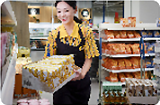
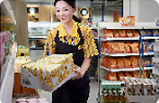
替換解析度差的圖片、排版修正

diff --git a/index.html b/index.html
@@ -7309,27 +7309,25 @@
                 <div class="col">
                   <div class="card border-0">
                     <div class="card-body">
-                      <div class="d-flex align-items-start">
-                        <div class="row">
-                          <div class="col-12 col-md-4">
-                            <div class="card">
-                              <img
-                                src="public/img/bg-img-we-are-looking-for-people-who-share-a-common-working-philosophy.png"
-                                class="card-img border-0"
-                                alt="說明圖片"
-                              />
-                            </div>
+                      <div class="row g-3 align-items-start">
+                        <div class="col-12 col-xl-4">
+                          <div class="card">
+                            <img
+                              src="public/img/bg-img-we-are-looking-for-people-who-share-a-common-working-philosophy.png"
+                              class="card-img border-0"
+                              alt="說明圖片"
+                            />
                           </div>
-                          <div class="col-12 col-md-8">
-                            <h6 class="m-0">我們正在尋找有共同工作理念的人</h6>
-                            <ul class="ps-3">
-                              <li>全台招募_餐廳_廚房人員</li>
-                              <li>全台聯招_銷售部_銷售人員</li>
-                            </ul>
-                            <p class="card-text text-end">
-                              <a href="#">更多職缺</a>
-                            </p>
-                          </div>
+                        </div>
+                        <div class="col-12 col-xl-8">
+                          <h6 class="m-0">我們正在尋找有共同工作理念的人</h6>
+                          <ul class="ps-3">
+                            <li>全台招募_餐廳_廚房人員</li>
+                            <li>全台聯招_銷售部_銷售人員</li>
+                          </ul>
+                          <p class="card-text text-end">
+                            <a href="#">更多職缺</a>
+                          </p>
                         </div>
                       </div>
                     </div>
@@ -7338,26 +7336,24 @@
                 <div class="col">
                   <div class="card border-0">
                     <div class="card-body">
-                      <div class="d-flex align-items-start">
-                        <div class="row">
-                          <div class="col-12 col-md-4">
-                            <div class="card">
-                              <img
-                                src="public/img/bg-img-jpmorgan-asset-management-taiwan.png"
-                                class="card-img border-0"
-                                alt="說明圖片"
-                              />
-                            </div>
+                      <div class="row g-3 align-items-start">
+                        <div class="col-12 col-xl-4">
+                          <div class="card">
+                            <img
+                              src="public/img/bg-img-jpmorgan-asset-management-taiwan.png"
+                              class="card-img border-0"
+                              alt="說明圖片"
+                            />
                           </div>
-                          <div class="col-12 col-md-8">
-                            <h6 class="m-0">摩根證券投資信託</h6>
-                            <p class="card-text">
-                              2023 APAC Asset Management Information Session
-                            </p>
-                            <p class="card-text text-end">
-                              <a href="#">更多職缺</a>
-                            </p>
-                          </div>
+                        </div>
+                        <div class="col-12 col-xl-8">
+                          <h6 class="m-0">摩根證券投資信託</h6>
+                          <p class="card-text">
+                            2023 APAC Asset Management Information Session
+                          </p>
+                          <p class="card-text text-end">
+                            <a href="#">更多職缺</a>
+                          </p>
                         </div>
                       </div>
                     </div>
@@ -7366,27 +7362,25 @@
                 <div class="col">
                   <div class="card border-0">
                     <div class="card-body">
-                      <div class="d-flex align-items-start">
-                        <div class="row">
-                          <div class="col-12 col-md-4">
-                            <div class="card">
-                              <img
-                                src="public/img/bg-img-join-azolla.png"
-                                class="card-img border-0"
-                                alt="說明圖片"
-                              />
-                            </div>
+                      <div class="row g-3 align-items-start">
+                        <div class="col-12 col-xl-4">
+                          <div class="card">
+                            <img
+                              src="public/img/bg-img-join-azolla.png"
+                              class="card-img border-0"
+                              alt="說明圖片"
+                            />
                           </div>
-                          <div class="col-12 col-md-8">
-                            <h6 class="m-0">加入滿江紅，讓你比人紅</h6>
-                            <ul class="ps-3">
-                              <li>大安店-內外場兼職人員</li>
-                              <li>大安店-內場人員（早晚班）</li>
-                            </ul>
-                            <p class="card-text text-end">
-                              <a href="#">更多職缺</a>
-                            </p>
-                          </div>
+                        </div>
+                        <div class="col-12 col-xl-8">
+                          <h6 class="m-0">加入滿江紅，讓你比人紅</h6>
+                          <ul class="ps-3">
+                            <li>大安店-內外場兼職人員</li>
+                            <li>大安店-內場人員（早晚班）</li>
+                          </ul>
+                          <p class="card-text text-end">
+                            <a href="#">更多職缺</a>
+                          </p>
                         </div>
                       </div>
                     </div>
@@ -7395,26 +7389,24 @@
                 <div class="col">
                   <div class="card border-0">
                     <div class="card-body">
-                      <div class="d-flex align-items-start">
-                        <div class="row">
-                          <div class="col-12 col-md-4">
-                            <div class="card">
-                              <img
-                                src="public/img/bg-img-welcome-to-be-our-partner.png"
-                                class="card-img border-0"
-                                alt="說明圖片"
-                              />
-                            </div>
+                      <div class="row g-3 align-items-start">
+                        <div class="col-12 col-xl-4">
+                          <div class="card">
+                            <img
+                              src="public/img/bg-img-welcome-to-be-our-partner.png"
+                              class="card-img border-0"
+                              alt="說明圖片"
+                            />
                           </div>
-                          <div class="col-12 col-md-8">
-                            <h6 class="m-0">歡迎成為我們的夥伴！</h6>
-                            <p class="card-text">
-                              快來體驗宅配司機猛獸級收入~一人飽全家飽
-                            </p>
-                            <p class="card-text text-end">
-                              <a href="#">更多職缺</a>
-                            </p>
-                          </div>
+                        </div>
+                        <div class="col-12 col-xl-8">
+                          <h6 class="m-0">歡迎成為我們的夥伴！</h6>
+                          <p class="card-text">
+                            快來體驗宅配司機猛獸級收入~一人飽全家飽
+                          </p>
+                          <p class="card-text text-end">
+                            <a href="#">更多職缺</a>
+                          </p>
                         </div>
                       </div>
                     </div>
@@ -7423,26 +7415,24 @@
                 <div class="col">
                   <div class="card border-0">
                     <div class="card-body">
-                      <div class="d-flex align-items-start">
-                        <div class="row">
-                          <div class="col-12 col-md-4">
-                            <div class="card">
-                              <img
-                                src="public/img/bg-img-see-the-unique-you.png"
-                                class="card-img border-0"
-                                alt="說明圖片"
-                              />
-                            </div>
+                      <div class="row g-3 align-items-start">
+                        <div class="col-12 col-xl-4">
+                          <div class="card">
+                            <img
+                              src="public/img/bg-img-see-the-unique-you.png"
+                              class="card-img border-0"
+                              alt="說明圖片"
+                            />
                           </div>
-                          <div class="col-12 col-md-8">
-                            <h6 class="m-0">看見與眾不同的「你」</h6>
-                            <p class="card-text">
-                              希望能看見每個人的與眾不同，也讓您的與眾不同被看見。
-                            </p>
-                            <p class="card-text text-end">
-                              <a href="#">更多職缺</a>
-                            </p>
-                          </div>
+                        </div>
+                        <div class="col-12 col-xl-8">
+                          <h6 class="m-0">看見與眾不同的「你」</h6>
+                          <p class="card-text">
+                            希望能看見每個人的與眾不同，也讓您的與眾不同被看見。
+                          </p>
+                          <p class="card-text text-end">
+                            <a href="#">更多職缺</a>
+                          </p>
                         </div>
                       </div>
                     </div>
@@ -7451,26 +7441,24 @@
                 <div class="col">
                   <div class="card border-0">
                     <div class="card-body">
-                      <div class="d-flex align-items-start">
-                        <div class="row">
-                          <div class="col-12 col-md-4">
-                            <div class="card">
-                              <img
-                                src="public/img/bg-img-become-the-health-guardian-around-you-and-me.png"
-                                class="card-img border-0"
-                                alt="說明圖片"
-                              />
-                            </div>
+                      <div class="row g-3 align-items-start">
+                        <div class="col-12 col-xl-4">
+                          <div class="card">
+                            <img
+                              src="public/img/bg-img-become-the-health-guardian-around-you-and-me.png"
+                              class="card-img border-0"
+                              alt="說明圖片"
+                            />
                           </div>
-                          <div class="col-12 col-md-8">
-                            <h6 class="m-0">成為你我身邊的健康守護者</h6>
-                            <p class="card-text">
-                              以滿滿的微笑新希望與最好的技術，成為你我身邊的健康守護者。
-                            </p>
-                            <p class="card-text text-end">
-                              <a href="#">更多職缺</a>
-                            </p>
-                          </div>
+                        </div>
+                        <div class="col-12 col-xl-8">
+                          <h6 class="m-0">成為你我身邊的健康守護者</h6>
+                          <p class="card-text">
+                            以滿滿的微笑新希望與最好的技術，成為你我身邊的健康守護者。
+                          </p>
+                          <p class="card-text text-end">
+                            <a href="#">更多職缺</a>
+                          </p>
                         </div>
                       </div>
                     </div>
@@ -7551,7 +7539,7 @@
                 </ul>
               </div>
               <div class="col-12 col-md-4 col-xl-2">
-                <h6 class="mb-3">求職服務中心</h6>
+                <h6 class="mb-3 fw-bold">求職服務中心</h6>
                 <ul class="list-unstyled">
                   <li>服務時間</li>
                   <li>週一至週五 8:30 ~ 21:00</li>
@@ -7562,7 +7550,7 @@
                 </ul>
               </div>
               <div class="col-12 col-md-4 col-xl-3">
-                <h6 class="mb-3">求才服務中心</h6>
+                <h6 class="mb-3 fw-bold">求才服務中心</h6>
                 <ul class="list-unstyled">
                   <li>服務時間</li>
                   <li>週一至週五 8:30 ~ 21:00</li>
